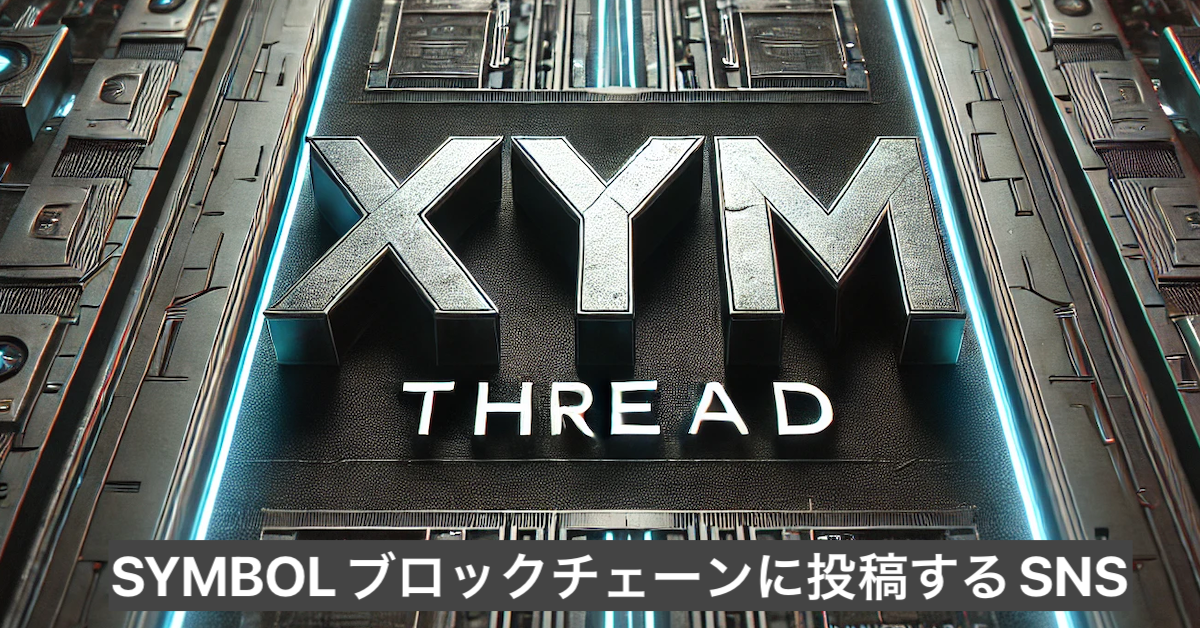
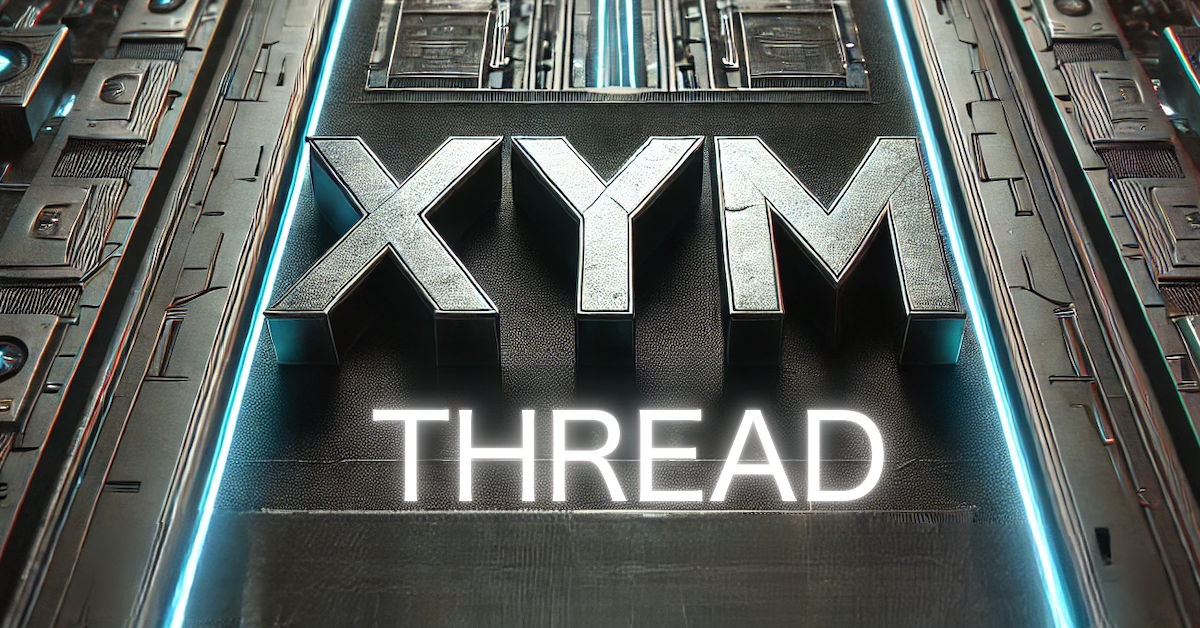
最新のローカル変更をコミット

Changed region(s): [[0.0617, 0.5446, 0.9558, 1.0]]

diff --git a/public/thread.html b/public/thread.html
@@ -15,13 +15,13 @@
     <meta property="og:title" content="XYM Thread (ジムスレッド)">
     <meta property="og:description" content="SYMBOLブロックチェーンを活用したスレッドです。XYMを使って投稿・コメントしよう！">
     <meta property="og:url" content="https://xym-thread.com/thread.html">
-    <meta property="og:image" content="https://xym-thread.com/src/xymthread_small.png">
+    <meta property="og:image" content="https://xym-thread.com/src/xymthread_small2.png">
 
     <!-- Twitterカード -->
     <meta name="twitter:card" content="summary"> <!-- 小さい画像用 -->
     <meta name="twitter:title" content="XYM Thread (ジムスレッド)">
     <meta name="twitter:description" content="SYMBOLブロックチェーンを活用したスレッドです。XYMを使って投稿・コメントしよう！">
-    <meta name="twitter:image" content="https://xym-thread.com/src/xymthread_small.png">
+    <meta name="twitter:image" content="https://xym-thread.com/src/xymthread_small2.png">
 
     <!-- JSON-LD構造化データ -->
     <script type="application/ld+json">
@@ -49,6 +49,10 @@
     <div id="loading-spinner" style="display:none;">
         <div class="spinner"></div>
     </div>
+
+    <header id="header">
+        <img src="src/xymthread2.png" alt="XYM Thread Banner" style="width:300px; height:auto;">
+    </header>
 
     <a href="index.html" id="home-button">
         <img src="src/home.png" alt="ホーム" id="home-icon">
@@ -273,6 +277,12 @@
                     fetchMetadataAndSetIcon(tx.transaction.signerPublicKey, threadElement);
 
                     addHoverEffect();  // リスナーを再設定
+
+                    // 日付クリックでSymbolエクスプローラーを開くイベントリスナーを追加
+                    threadElement.querySelector('.thread-date').addEventListener('click', () => {
+                        const explorerUrl = `https://symbol.fyi/transactions/${transactionHash}`;
+                        window.open(explorerUrl, '_blank');
+                    });
 
                     // コメント数とXYM合計を表示
                     fetchThreadCommentsV3(transactionHash, threadOwner, threadTimestamp);
@@ -625,6 +635,12 @@
                             document.querySelectorAll('.x-share-button_th').forEach(button => {
                                 button.removeEventListener('click', handleShareClick);
                                 button.addEventListener('click', handleShareClick);
+                            });
+
+                            // 日付クリックでSymbolエクスプローラーを開くイベントリスナーを追加
+                            threadElement.querySelector('.thread-date').addEventListener('click', () => {
+                                const explorerUrl = `https://symbol.fyi/transactions/${threadHash2}`;
+                                window.open(explorerUrl, '_blank');
                             });
 
                             //  コメント数の取得

diff --git a/public/script.js b/public/script.js
@@ -758,6 +758,12 @@ function appendThread(tx) {
         button.addEventListener('click', handleShareClick);
     });
 
+    // 日付クリックでSymbolエクスプローラーを開くイベントリスナーを追加
+    threadElement.querySelector('.thread-date').addEventListener('click', () => {
+        const explorerUrl = `https://symbol.fyi/transactions/${threadHash}`;
+        window.open(explorerUrl, '_blank');
+    });
+
     // コメント数の取得
     fetchThreadCommentsV3(threadHash, threadOwner, threadTimestamp);
 }

diff --git a/public/style.css b/public/style.css
@@ -255,6 +255,22 @@ h3 {
     box-shadow: none;
 }
 
+.thread-date {
+  /* ブロック → インラインブロックに */
+  display: inline-block;
+  /* ここだけにポインターを出す */
+  cursor: pointer;
+}
+
+.thread-date:hover {
+    text-decoration: underline;
+    color: #cce5ff;
+}
+
+.thread-date:active {
+    background-color: #cce5ff; /* タップ時の背景色 */
+}
+
 .border-line {
     width: 100%;
     height: 2px;

diff --git a/public/index.html b/public/index.html
@@ -42,7 +42,7 @@
     </div>
 
     <header id="header">
-        <img src="src/xymthread.png" alt="XYM Thread Banner">
+        <img src="src/xymthread2.png" alt="XYM Thread Banner">
        <!-- <button id="omikuji-button" class="create-thread">おみくじを引く 🎲</button>  -->
         <!-- おみくじアニメーション -->
         <div id="omikuji-spinner" style="display: none;">
